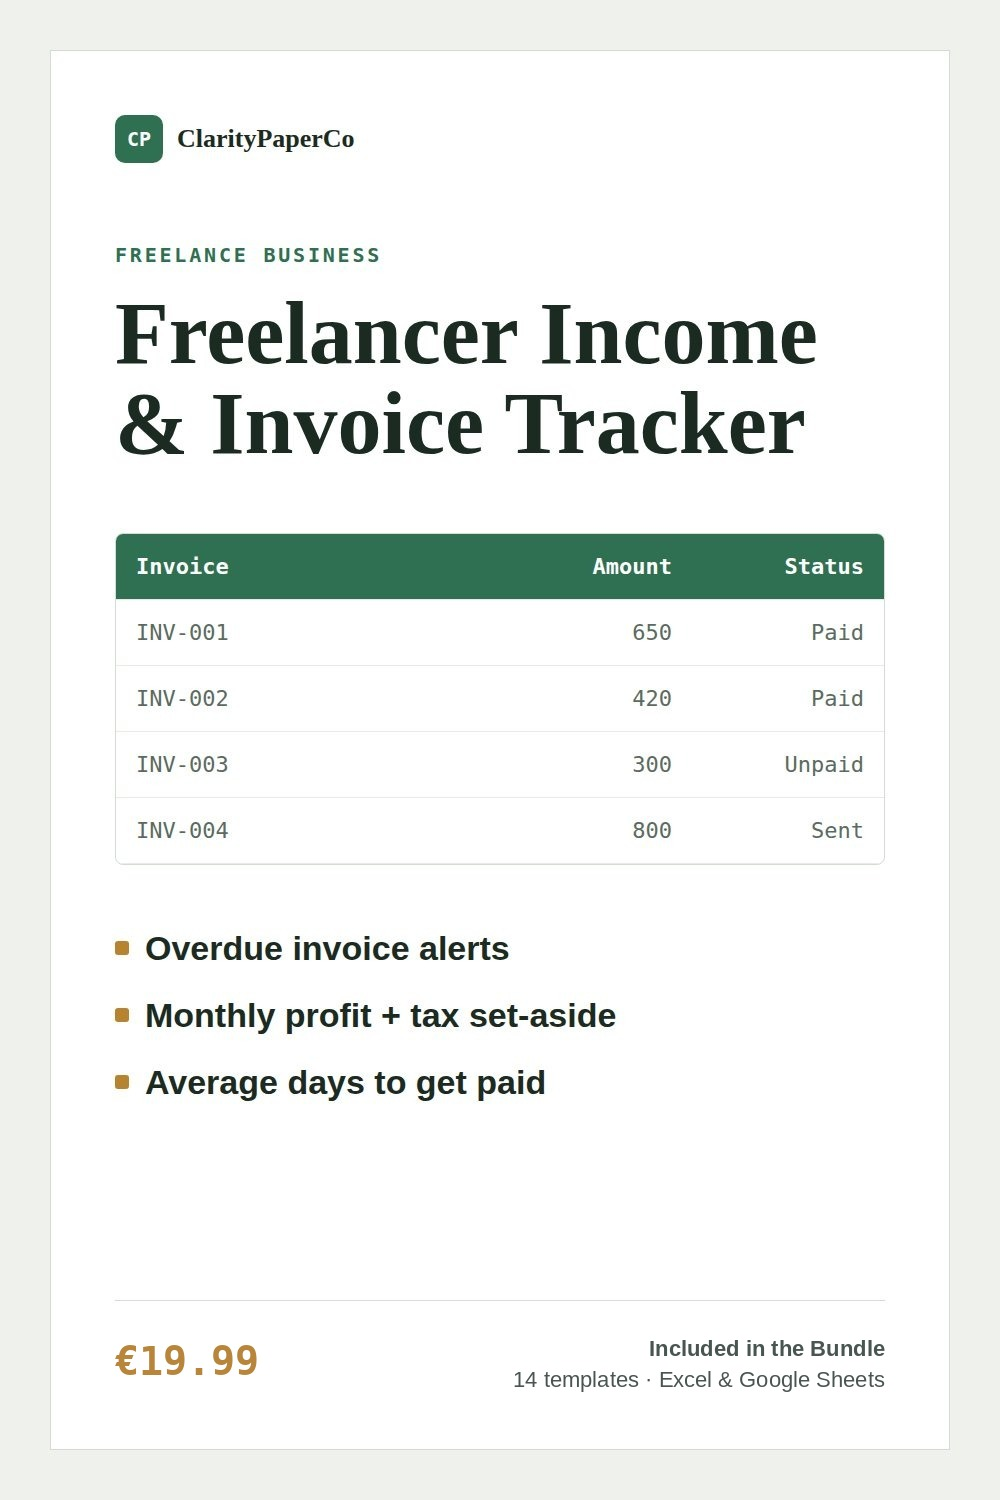
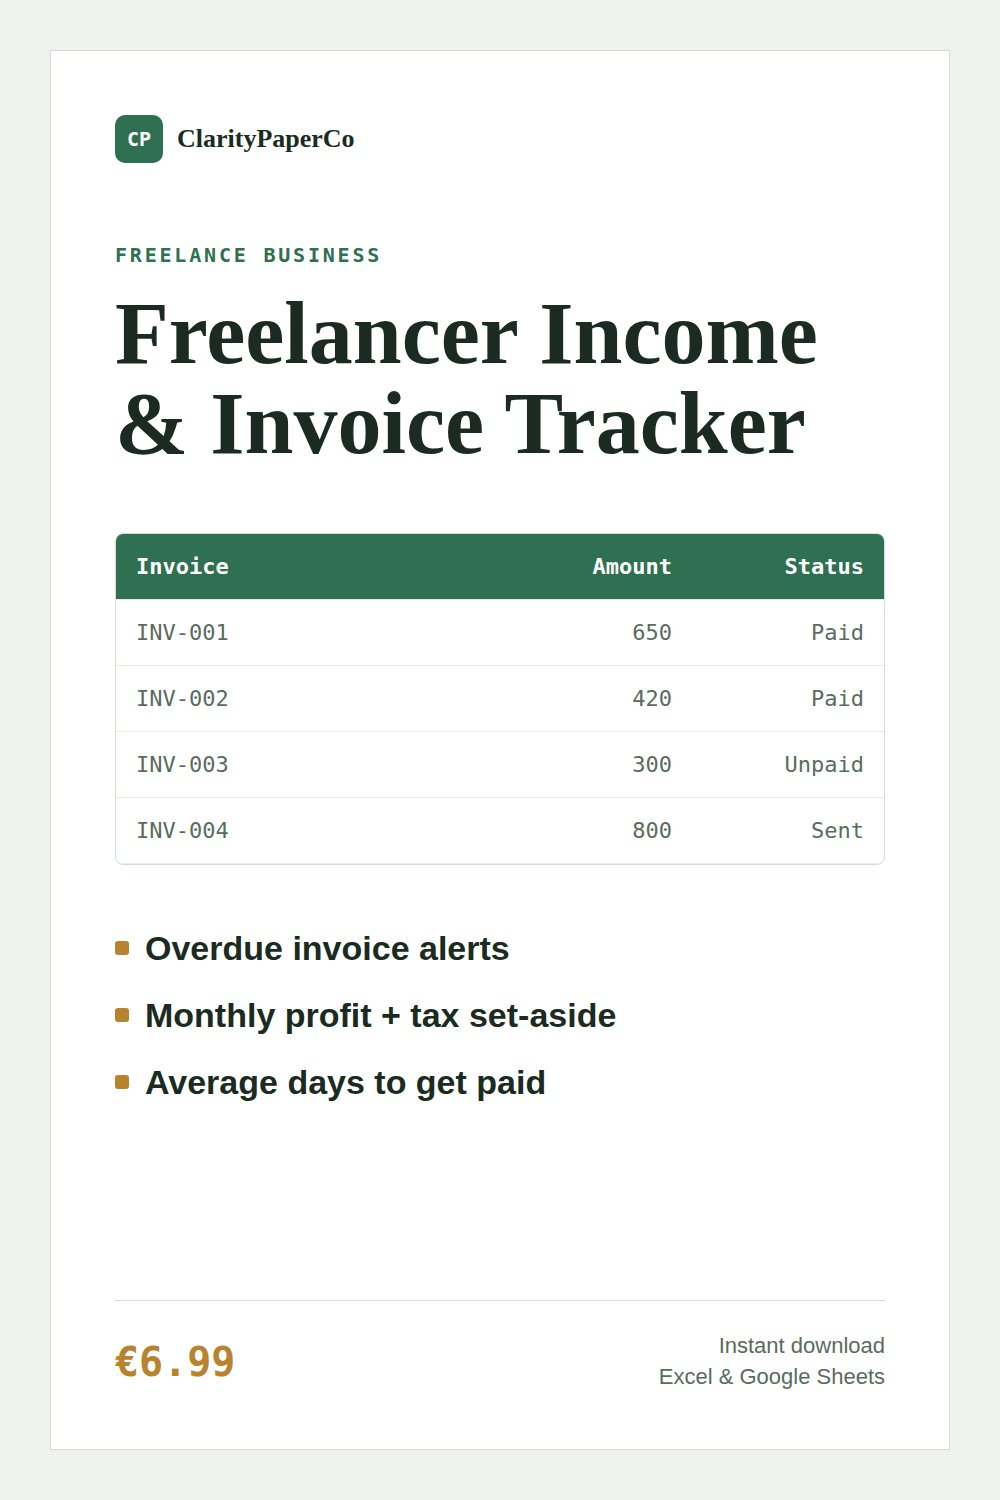
Freelancer tracker back on Gumroad: pins and page link to /l/mdfzdj, €6.99 images
Claude-Session: https://claude.ai/code/session_013aZNroSrQGikNsvs2LPMzb

Changed region(s): [[0.651, 0.8893, 0.899, 0.9507], [0.124, 0.8893, 0.279, 0.92]]

diff --git a/gen/products_data.py b/gen/products_data.py
@@ -87,7 +87,7 @@ PRODUCTS = {
    ("Wedding on a Budget: Cost per Guest Calculator & Budget Planner", "See your cost per guest and where to cut. Affordable wedding budget planner with category split and vendor tracker."),
   ]),
  "freelancer": dict(
-  slug="freelancer-income-invoice-tracker", name="Freelancer Income & Invoice Tracker", price="6.99", link=G + "zpdnkk", bundle_only=True, priority=False, board="biz",
+  slug="freelancer-income-invoice-tracker", name="Freelancer Income & Invoice Tracker", price="6.99", link=G + "mdfzdj", priority=False, board="biz",
   images=["v3/pin_freelancer_a.jpg", "v3/pin_freelancer_b.jpg"],
   blurb="Know who owes you, what you really earned, and how much to put aside for tax.",
   features=["Invoice log: due dates from your payment terms, OVERDUE alert in red", "Expense log with categories", "Monthly dashboard: income received, expenses, profit, tax set-aside (you pick the %) and what you keep", "Total still owed by clients and average days to get paid"],
